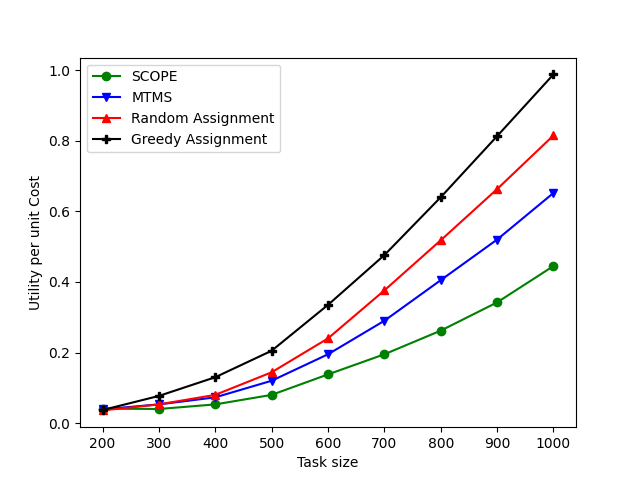
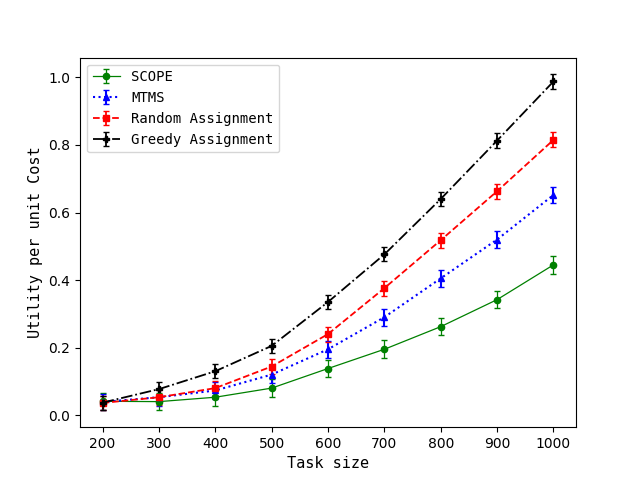
fillstyle of marker added

diff --git a/dummygraph.py b/dummygraph.py
@@ -335,15 +335,20 @@ def taskSizeVsUtilityPerUnitCost():
         y3.append(float(lines[3]))
         y4.append(float(lines[4]))
 
-    plt.xlabel('Task size')
-    plt.ylabel('Utility per unit Cost')
+    plt.xlabel('Task size', fontsize=11, fontname='monospace')
+    plt.ylabel('Utility per unit Cost', fontsize=11, fontname='monospace')
 
-    plt.plot(x1, y4, marker='o', c='g', label='SCOPE')
-    plt.plot(x1, y1, marker='v', c='b', label='MTMS')
-    plt.plot(x1, y2, marker='^', c='r', label='Random Assignment')
-    plt.plot(x1, y3, marker='P', c='k', label='Greedy Assignment')
+    plt.errorbar(x1, y4, color='g', label='SCOPE', yerr=0.026, marker='o', capsize=2, linestyle='solid', linewidth=0.9,
+                 markersize=4.5, fillstyle='full')
+    plt.errorbar(x1, y1, color='b', label='MTMS', yerr=0.025, marker='^', capsize=2, linestyle='dotted', linewidth=1.5,
+                 markersize=4.7, fillstyle='full')
+    plt.errorbar(x1, y2, color='r', label='Random Assignment', yerr=0.022, marker='s', capsize=2, linestyle='dashed',
+                 linewidth=1.3, markersize=4.7, fillstyle='full')
+    plt.errorbar(x1, y3, color='k', label='Greedy Assignment', yerr=0.021, marker='P', capsize=2, linestyle='dashdot',
+                 linewidth=1.3, markersize=4.7, fillstyle='full')
 
-    plt.legend()
+    font = font_manager.FontProperties(family='monospace', weight='regular', style='normal', size=10)
+    plt.legend(prop=font)
     plt.savefig("Images/tasksizevsutilitypercost.png")
     plt.show()
 
@@ -362,15 +367,20 @@ def taskSizeVsTaskDrop():
         y3.append(float(lines[3]))
         y4.append(float(lines[4]))
 
-    plt.xlabel('Task size')
-    plt.ylabel('Task Drop Rate')
+    plt.xlabel('Task size', fontsize=11, fontname='monospace')
+    plt.ylabel('Task Drop Rate', fontsize=11, fontname='monospace')
 
-    plt.plot(x1, y4, marker='o', c='g', label='SCOPE')
-    plt.plot(x1, y1, marker='v', c='b', label='MTMS')
-    plt.plot(x1, y2, marker='^', c='r', label='Random Assignment')
-    plt.plot(x1, y3, marker='P', c='k', label='Greedy Assignment')
+    plt.errorbar(x1, y4, color='g', label='SCOPE', yerr=0.25, marker='o', capsize=2, linestyle='solid', linewidth=0.9,
+                 markersize=4.5, fillstyle='full')
+    plt.errorbar(x1, y1, color='b', label='MTMS', yerr=0.3, marker='^', capsize=2, linestyle='dotted', linewidth=1.5,
+                 markersize=4.7, fillstyle='full')
+    plt.errorbar(x1, y2, color='r', label='Random Assignment', yerr=0.3, marker='s', capsize=2, linestyle='dashed',
+                 linewidth=1.3, markersize=4.8, fillstyle='full')
+    plt.errorbar(x1, y3, color='k', label='Greedy Assignment', yerr=0.17, marker='P', capsize=2, linestyle='dashdot',
+                 linewidth=1.3, markersize=4.7, fillstyle='full')
 
-    plt.legend()
+    font = font_manager.FontProperties(family='monospace', weight='regular', style='normal', size=10)
+    plt.legend(prop=font)
     plt.savefig("Images/tasksizevstaskdrop.png")
     plt.show()
 
@@ -425,7 +435,7 @@ def taskSizeVsTaskDropBar():
 # serverVsTaskDropBar()
 
 # taskSizeVsLatency()
-taskSizeVsEnergy()
+# taskSizeVsEnergy()
 # taskSizeVsUtilityPerUnitCost()
-# taskSizeVsTaskDrop()
+taskSizeVsTaskDrop()
 # taskSizeVsTaskDropBar()
